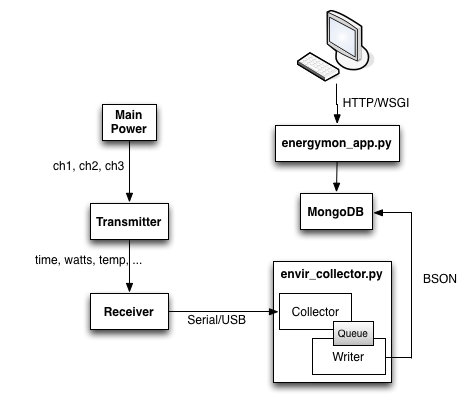
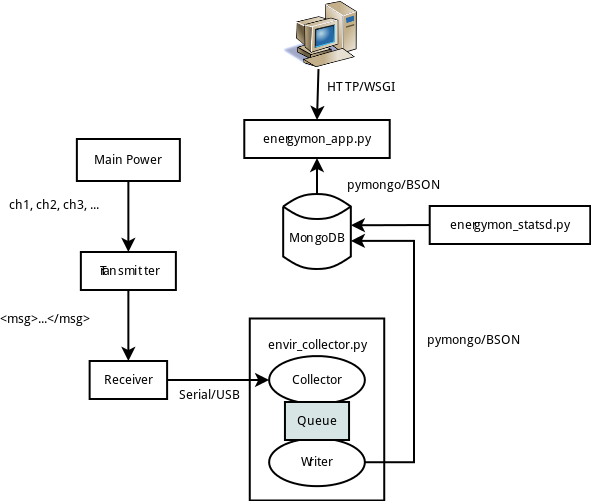
Update high level design image.

Changed region(s): [[0.0, 0.0, 1.0, 1.0], [0.5032, 0.5307, 0.5624, 0.5602]]

diff --git a/README.md b/README.md
@@ -7,7 +7,7 @@ There were a few that existed that had relatively advanced software for drawing 
 
 ## High Level Design ##
 
-![alt text](https://github.com/clinstid/energymon/raw/master/high_level_design.png "energymon screenshot")
+![alt text](https://github.com/clinstid/energymon/raw/master/high_level_design.svg "energymon screenshot")
 
 ## Screenshot ##
 
